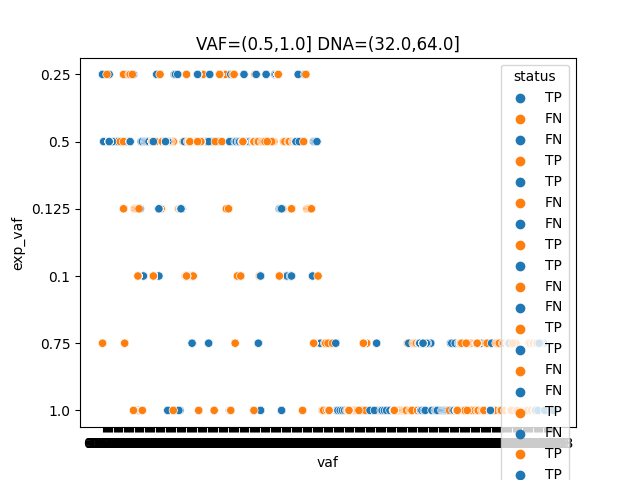
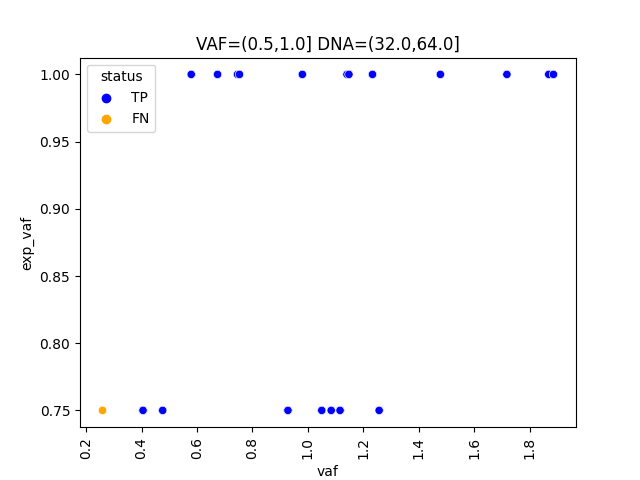
fix hue of scatterplots

diff --git a/results/get_vaf_plots.py b/results/get_vaf_plots.py
@@ -1,6 +1,8 @@
 """
 Generate figures of scatter plot of TP/FN indels expected VAF versus VAF
 """
+import matplotlib.pyplot as plt
+import numpy as np
 import pandas as pd
 import seaborn as sns
 import sys
@@ -31,7 +33,14 @@ for setting in GRID:
     in_file = '_'.join([PREF, setting, EXT, 'vaf.tsv'])
     out_file = in_file.replace('.tsv', '.png')
     in_df = pd.read_csv(in_file, dtype=str, sep='\t')
-    vaf_plot = sns.scatterplot(data=in_df, x='vaf', y='exp_vaf', hue='status')
-    vaf_plot.set_title(title)
-    fig = vaf_plot.get_figure()
-    fig.savefig(out_file)
+    in_df['vaf'] = in_df['vaf'].astype(np.float64)
+    in_df['exp_vaf'] = in_df['exp_vaf'].astype(np.float64)
+    plt.figure()
+    vaf_plot = sns.scatterplot(
+        data=in_df, x='vaf', y='exp_vaf', hue='status',
+        palette={'TP': 'blue', 'FN': 'orange'}
+    )
+    plt.title(title)
+    plt.xticks(rotation=90)
+    # fig = vaf_plot.get_figure()
+    plt.savefig(out_file)
